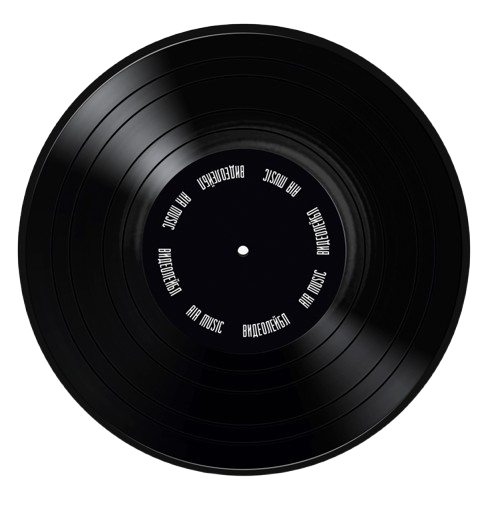
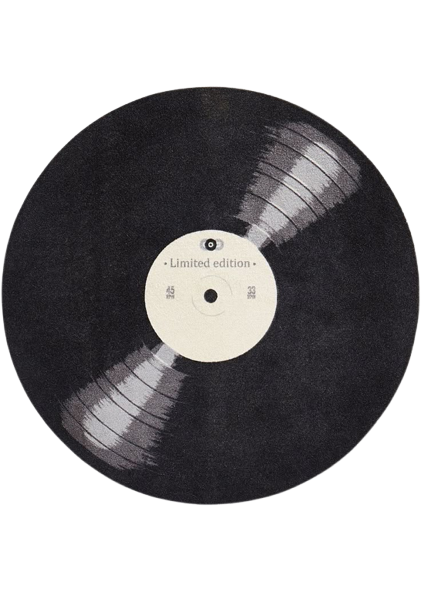
cdeez nuts

diff --git a/src/Components/CommunityPartners.tsx b/src/Components/CommunityPartners.tsx
@@ -281,7 +281,7 @@ function CommunityPartners() {
                                 fontFamily: "'Staatliches', cursive",
                                 paddingLeft: '3vw',
                                 paddingTop: '5vh',
-                                fontSize: 'clamp(2rem, 5vh, 5vh)',
+                                fontSize: 'clamp(2rem, 4vh, 5vh)',
                                 letterSpacing: '0.05em',
                                 marginBottom: '3vh',
                             }}
